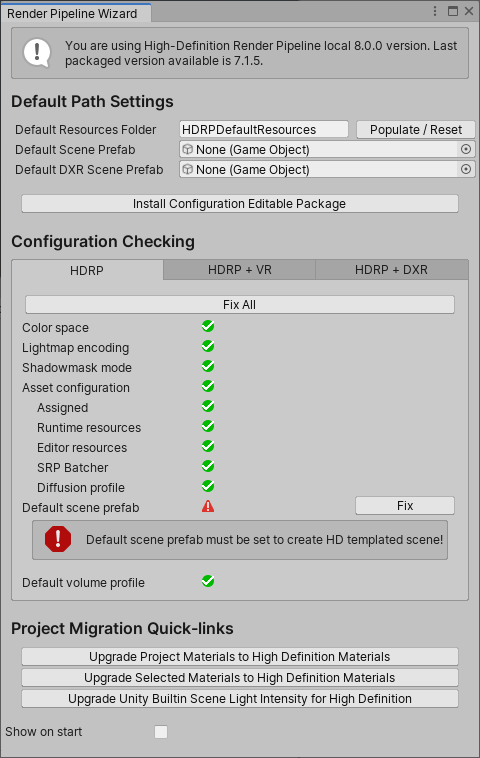
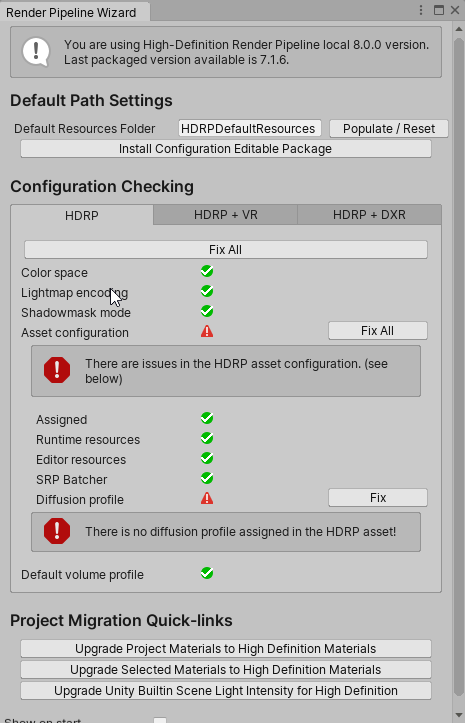
Updated documentation (Also add missing DefaultVolumeProfile and SRPBatcher)

diff --git a/com.unity.render-pipelines.high-definition/Documentation~/Render-Pipeline-Wizard.md b/com.unity.render-pipelines.high-definition/Documentation~/Render-Pipeline-Wizard.md
@@ -13,15 +13,12 @@ At the top of the window, there is an information box that shows you the current
 | **Property**                               | **Description**                                              |
 | ------------------------------------------ | ------------------------------------------------------------ |
 | **Default Resources Folder**               | Set the folder name that the Render Pipeline Wizard uses when it loads or creates resources. Click the **Populate / Reset** button to populate the **Default Resources Folder** with the resources that HDRP needs to render a Scene (for details, see [Populating the default resources folder](#PopulatingFolder)). If a default Asset already exists in the folder then clicking the Populate/Reset button resets the existing Asset. |
-| **Default Scene Prefab**                   | Set the default Prefab that Unity instantiates in a new Scene when you select **File > New Scene**. To instantly create a Scene Asset with this template, go to **Assets > Create** and click **HD Template Scene**. |
-| **Default DXR Scene Prefab**               | Set the default Prefab that Unity instantiates in a new Scene that uses ray tracing. |
 | **Install Configuration Editable Package** | Creates a local instance of the [High Definition Render Pipeline Config package](HDRP-Config-Package.html) in the **LocalPackage** folder of your HDRP Project. |
 
 ### Populating the default resources folder
 
 When you click **Populate/Reset**, HDRP generates the following Assets:
 
-- **DefaultSceneRoot**: The Prefab that Unity instantiates in each new HDRP template Scene.
 - **DefautRenderingSettings**: The default [Volume Profile](Volume-Profile.html) that the template Scene uses to render visual elements like shadows, fog, and the sky.
 - **DefautPostprocessingSettings**: The default [Volume Profile](Volume-Profile.html) that the template Scene uses for post-processing effects.
 - **HDRenderPipellineAsset**: The [HDRP Asset](HDRP-Asset.html) that Unity uses to configure HDRP settings for the Unity Project.
@@ -52,8 +49,9 @@ This tab provides you with configuration options to help you make your Unity Pro
 | **- Assigned**                   | Checks to make sure you have assigned an [HDRP Asset](HDRP-Asset.html) to the **Scriptable Render Pipeline Settings** field (menu: **Edit** > **Project Settings** > **Graphics**).<br />Press the **Fix** button to open a pop-up that allows you to either assign an HDRP Asset or create and assign a new one. |
 | **- Runtime Resources**          | Checks to make sure that your HDRP Asset references a [**Render Pipeline Resources**](HDRP-Asset.html#GeneralProperties) Asset.<br />Press the **Fix** button to reload the runtime resources for the HDRP Asset. |
 | **- Editor Resources**           | Checks to make sure that your HDRP Asset references a [**Render Pipeline Editor Resources**](HDRP-Asset.html#GeneralProperties)  Asset.<br />Press the **Fix** button to reload the runtime resources for the HDRP Asset. |
+| **- SRP Batcher** | Scriptable Render Pipeline  Batcher must be enabled. This check is only for updating old project. <br />Press the **Fix** button to update your old project and use it. |
 | **- Diffusion Profile**          | Checks to make sure that your HDRP Asset references a [**Diffusion Profile**](Diffusion-Profile.html) Asset.<br />Press the **Fix** button to reload the runtime resources for the HDRP Asset. |
-| **Default Scene Prefab**         | Checks to make sure you have assigned something to **Default Scene Prefab** in this wizard.<br />Press the **Fix** button to open a pop-up that allows you to either assign a Prefab or create and assign a new one. |
+| **Default Volume Profile** | Check that a required default Volume Profile is assigned to the used default HDRP Asset.<br />Press the **Fix** button to open a pop-up that allows you to either assign an HDRP Asset or create and assign a new one. |
 
 <a name="VRTab"></a>
 
